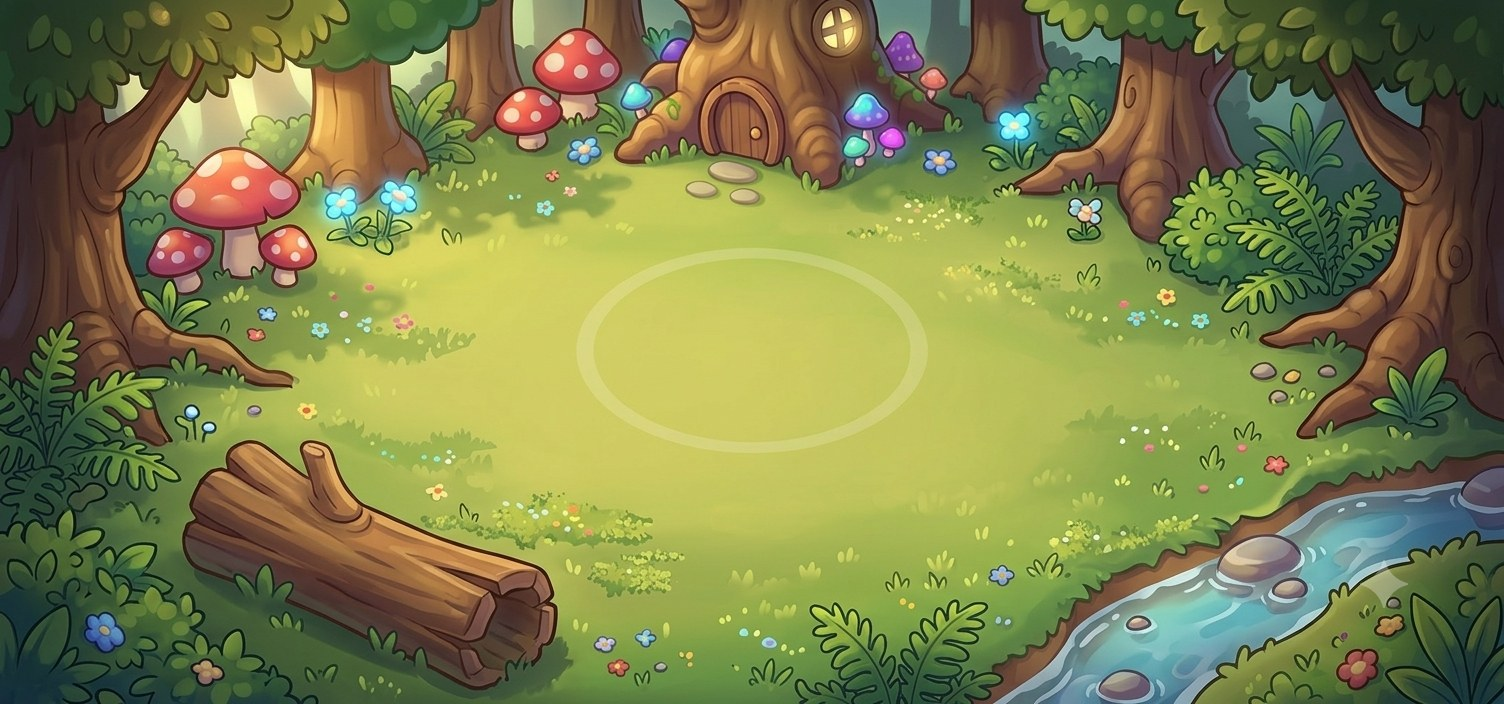
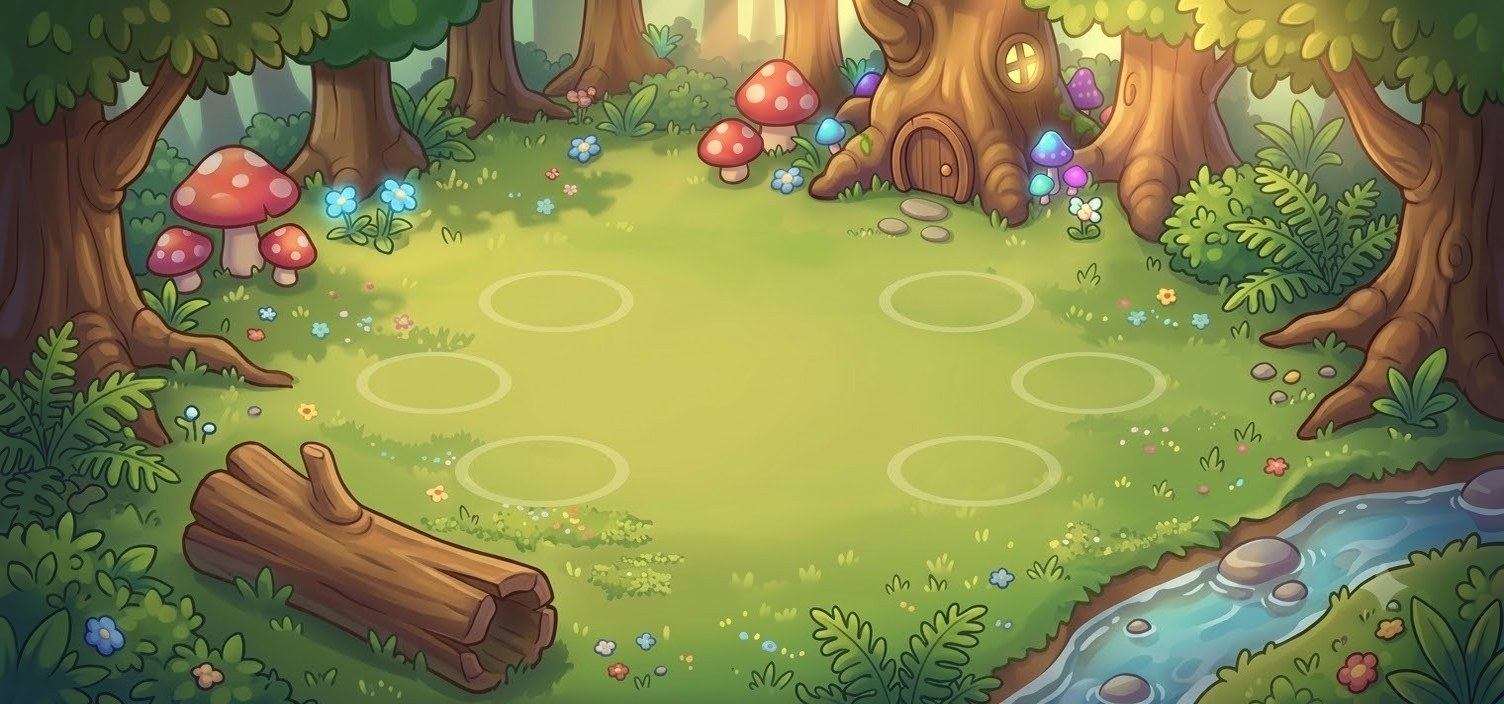
v9.9: pixel só na cidade e combate; novos cenários Praia e Bosque

diff --git a/dev/combate.html b/dev/combate.html
@@ -3227,7 +3227,7 @@ const THEMES = {
 };
 THEMES.bglobal = THEMES.templo; THEMES.weekly = THEMES.templo; // fundos pintados próprios (bg/bglobal.jpg, bg/weekly.jpg)
 // Cenários pintados (arte final): quando a imagem existe, substitui o cenário desenhado em código
-const BG_IMGS = Object.fromEntries(['praia','bosque','caverna','vulcao','pico','usina','pantano','templo','dungeon','arena','bglobal','weekly'].map(k=>{ const im = new Image(); im.onload = ()=>{ bg = null; refreshArt(); }; im.src = `bg/${k}.jpg`; return [k, im]; }));
+const BG_IMGS = Object.fromEntries(['praia','bosque','caverna','vulcao','pico','usina','pantano','templo','dungeon','arena','bglobal','weekly'].map(k=>{ const im = new Image(); im.onload = ()=>{ bg = null; refreshArt(); }; im.src = `bg/${k}.jpg?v=92`; return [k, im]; }));
 function drawBg(){
   const stg = B && STAGES[B.stage], tk = stg ? (stg.theme || REGIONS.find(r=>r.id===stg.region).theme) : 'praia', T = THEMES[tk];
   const c = document.createElement('canvas'); c.width=W*K; c.height=H*K;
@@ -3265,7 +3265,10 @@ let MONIMG = {};
 const PIXEL = { has: k => /^\d+$/.test(k) || /^b:/.test(k) }; // todos os monstros e chefes (montarias e poses de costas continuam pintadas)
 const pxSrc = k => `px/${k.replace(':','_')}.webp?v=${typeof ASSET_V!=='undefined'?ASSET_V:'1'}`;
 // se a versão pixel não carregar (ex.: arquivo ausente), volta para a arte pintada
-function pxLoad(im, k, orig){ im.onerror = ()=>{ im.onerror = null; im.src = orig; }; im.src = PIXEL.has(k) ? pxSrc(k) : orig; }
+function pxLoad(im, k, orig){ im.src = orig; } // telas de menu (Monstros, Livro, Equipe...) usam a arte pintada
+// Pixel art só nas cenas de uso (cidade e combate): render()/renderCity() ligam PX_SCENE enquanto desenham
+let PX_SCENE = false; const PXIMG = {};
+function pxImg(k){ if(!PIXEL.has(k)) return null; let im = PXIMG[k]; if(!im){ im = PXIMG[k] = new Image(); im.onload = refreshArt; im.onerror = ()=>{ im.bad = 1; }; im.src = pxSrc(k); } return !im.bad && im.complete && im.naturalWidth ? im : null; }
 let artTimer = 0; // quando uma arte termina de carregar, redesenha as telas abertas que mostram monstros
 function refreshArt(){ clearTimeout(artTimer); artTimer = setTimeout(()=>{ bg = null;
   for(const [id,f] of [['mon',()=>renderMon()],['dex',()=>{ renderDexGrid(); renderDexDet(); }],['sel',()=>buildCards()],['starter',()=>pickStarter()],['dep',()=>renderDep()],['mnt',()=>renderMnt()],['map',()=>drawMap()],['city',()=>renderCityHud()],['prof',()=>renderProf()]]) if(!$(id).hidden) f(); }, 60); }
@@ -3313,7 +3316,7 @@ function tintOf(im, kind){ let m = TINT.get(im); if(!m){ m = {}; TINT.set(im, m)
   const c = document.createElement('canvas'), s = Math.min(1, 256/Math.max(im.naturalWidth, im.naturalHeight)); c.width = Math.max(1, Math.round(im.naturalWidth*s)); c.height = Math.max(1, Math.round(im.naturalHeight*s)); const t = c.getContext('2d');
   t.drawImage(im, 0, 0, c.width, c.height); t.globalCompositeOperation = 'source-atop'; t.fillStyle = kind==='w' ? '#ffffff' : '#141020'; t.fillRect(0, 0, c.width, c.height); return m[kind] = c; }
 function drawCreature(g, sp, x, y, sc, face, opt={}){
-  const A = artOf(sp, opt.form), px = A && PIXEL.has(String(A.id)), bk = opt.back && A && !px && monImg('k:'+A.id), im = bk || (A && monImg(A.id)); if(bk) face = 1; // pose de costas (k:<nº>) para o lado do jogador
+  const A = artOf(sp, opt.form), pim = PX_SCENE && A ? pxImg(String(A.id)) : null, px = !!pim, bk = opt.back && A && !px && monImg('k:'+A.id), im = pim || bk || (A && monImg(A.id)); if(bk) face = 1; // pose de costas (k:<nº>) para o lado do jogador
   if(im){ let h = 74*sc*(1+0.14*(Math.min(A.st,4)-1))*(opt.form && SPECIES[sp].playable ? 1+0.08*opt.form : 1), w = im.naturalWidth*h/im.naturalHeight;
     if(opt.box){ const f = Math.min(1, opt.box[0]/w, opt.box[1]/h); w*=f; h*=f; }
     g.save(); g.translate(x,y); g.globalAlpha = opt.alpha ?? 1;
@@ -3364,7 +3367,7 @@ for(const k of Object.keys(LIB_KIND)) for(let t=1;t<=4;t++) ICON_FILE[libKey(k,t
 const ico = (k, cls='') => ICON_FILE[k] ? `<img class="ico ${cls}" src="ui/${ICON_FILE[k]}.png" alt="">` : `<i class="dot" style="background:${(ITEMS[k]||{}).color||'#ffc23d'}"></i>`;
 // ===== Personagens (arte final): sprites recortados em char/. Sem a imagem, cai no desenho provisório =====
 const CHAR = {};
-const ASSET_V = '91'; // muda quando as imagens dos personagens/cidade mudarem (o navegador guarda as antigas)
+const ASSET_V = '92'; // muda quando as imagens dos personagens/cidade mudarem (o navegador guarda as antigas)
 for(const k of [...['heroM','heroF','heroG','heroS'].flatMap(h=>[0,1,2,3,4,5].map(i=>`${h}_${i}`)), ...[0,1,2,3,4].map(i=>`npc_${i}`), ...[0,1,2,3,4,5].map(i=>`tr_${i}`), 'rideM','rideF','rideS']){
   const im = new Image(); im.onload = ()=>{ bg = null; if(typeof cityBg!=='undefined') cityBg = null; if(!$('starter').hidden) pickStarter(); }; im.src = `char/${k}.png?v=${ASSET_V}`; CHAR[k] = im; }
 const heroKey = view => `hero${(save && save.costume) || (save && save.hero) || 'M'}_${view}`; // 0 frente · 1 três-quartos · 2 lado (andando) · 3 costas · 4 costas arremessando · 5 costas comemorando
@@ -3441,7 +3444,8 @@ const ENERGY_MAX = 25; // barra verde (topo): enche ao bater/derrotar/apanhar; c
 function posOf(u){ return u.boss ? BOSS_POS : POS[u.side][u.slot]; }
 function scaleOf(u){ return u.boss ? 1.45 : u.sub ? 1.05 : 0.85; }
 
-function render(ts){
+function render(ts){ PX_SCENE = true; try{ render0(ts); } finally{ PX_SCENE = false; } }
+function render0(ts){
   if(!bg) bg = drawBg();
   const sx = shake>0 ? (Math.random()-.5)*shake/30 : 0, sy = shake>0 ? (Math.random()-.5)*shake/30 : 0;
   const cam = BS.ultCamera(); // Supremo: a câmera aproxima do atacante e volta no impacto
@@ -4651,7 +4655,8 @@ function cityFrame(ts){
   if(!GFX_LOW || ts - (cityFrame.lr||0) >= 30){ cityFrame.lr = ts; renderCity(ts); }
   cityRaf = requestAnimationFrame(cityFrame);
 }
-function renderCity(ts){
+function renderCity(ts){ PX_SCENE = true; try{ renderCity0(ts); } finally{ PX_SCENE = false; } }
+function renderCity0(ts){
   const g = cctx, KC = cityK(); if(ccv.width !== Math.round(W*KC)){ ccv.width = Math.round(W*KC); ccv.height = Math.round(H*KC); cityBg = null; }
   if(!cityBg || cityBg.S !== KC*CZ) cityBg = bakeCity();
   g.setTransform(1,0,0,1,0,0); g.fillStyle='#3a5a3a'; g.fillRect(0,0,ccv.width,ccv.height);

diff --git a/site/index.html b/site/index.html
@@ -3227,7 +3227,7 @@ const THEMES = {
 };
 THEMES.bglobal = THEMES.templo; THEMES.weekly = THEMES.templo; // fundos pintados próprios (bg/bglobal.jpg, bg/weekly.jpg)
 // Cenários pintados (arte final): quando a imagem existe, substitui o cenário desenhado em código
-const BG_IMGS = Object.fromEntries(['praia','bosque','caverna','vulcao','pico','usina','pantano','templo','dungeon','arena','bglobal','weekly'].map(k=>{ const im = new Image(); im.onload = ()=>{ bg = null; refreshArt(); }; im.src = `bg/${k}.jpg`; return [k, im]; }));
+const BG_IMGS = Object.fromEntries(['praia','bosque','caverna','vulcao','pico','usina','pantano','templo','dungeon','arena','bglobal','weekly'].map(k=>{ const im = new Image(); im.onload = ()=>{ bg = null; refreshArt(); }; im.src = `bg/${k}.jpg?v=92`; return [k, im]; }));
 function drawBg(){
   const stg = B && STAGES[B.stage], tk = stg ? (stg.theme || REGIONS.find(r=>r.id===stg.region).theme) : 'praia', T = THEMES[tk];
   const c = document.createElement('canvas'); c.width=W*K; c.height=H*K;
@@ -3265,7 +3265,10 @@ let MONIMG = {};
 const PIXEL = { has: k => /^\d+$/.test(k) || /^b:/.test(k) }; // todos os monstros e chefes (montarias e poses de costas continuam pintadas)
 const pxSrc = k => `px/${k.replace(':','_')}.webp?v=${typeof ASSET_V!=='undefined'?ASSET_V:'1'}`;
 // se a versão pixel não carregar (ex.: arquivo ausente), volta para a arte pintada
-function pxLoad(im, k, orig){ im.onerror = ()=>{ im.onerror = null; im.src = orig; }; im.src = PIXEL.has(k) ? pxSrc(k) : orig; }
+function pxLoad(im, k, orig){ im.src = orig; } // telas de menu (Monstros, Livro, Equipe...) usam a arte pintada
+// Pixel art só nas cenas de uso (cidade e combate): render()/renderCity() ligam PX_SCENE enquanto desenham
+let PX_SCENE = false; const PXIMG = {};
+function pxImg(k){ if(!PIXEL.has(k)) return null; let im = PXIMG[k]; if(!im){ im = PXIMG[k] = new Image(); im.onload = refreshArt; im.onerror = ()=>{ im.bad = 1; }; im.src = pxSrc(k); } return !im.bad && im.complete && im.naturalWidth ? im : null; }
 let artTimer = 0; // quando uma arte termina de carregar, redesenha as telas abertas que mostram monstros
 function refreshArt(){ clearTimeout(artTimer); artTimer = setTimeout(()=>{ bg = null;
   for(const [id,f] of [['mon',()=>renderMon()],['dex',()=>{ renderDexGrid(); renderDexDet(); }],['sel',()=>buildCards()],['starter',()=>pickStarter()],['dep',()=>renderDep()],['mnt',()=>renderMnt()],['map',()=>drawMap()],['city',()=>renderCityHud()],['prof',()=>renderProf()]]) if(!$(id).hidden) f(); }, 60); }
@@ -3313,7 +3316,7 @@ function tintOf(im, kind){ let m = TINT.get(im); if(!m){ m = {}; TINT.set(im, m)
   const c = document.createElement('canvas'), s = Math.min(1, 256/Math.max(im.naturalWidth, im.naturalHeight)); c.width = Math.max(1, Math.round(im.naturalWidth*s)); c.height = Math.max(1, Math.round(im.naturalHeight*s)); const t = c.getContext('2d');
   t.drawImage(im, 0, 0, c.width, c.height); t.globalCompositeOperation = 'source-atop'; t.fillStyle = kind==='w' ? '#ffffff' : '#141020'; t.fillRect(0, 0, c.width, c.height); return m[kind] = c; }
 function drawCreature(g, sp, x, y, sc, face, opt={}){
-  const A = artOf(sp, opt.form), px = A && PIXEL.has(String(A.id)), bk = opt.back && A && !px && monImg('k:'+A.id), im = bk || (A && monImg(A.id)); if(bk) face = 1; // pose de costas (k:<nº>) para o lado do jogador
+  const A = artOf(sp, opt.form), pim = PX_SCENE && A ? pxImg(String(A.id)) : null, px = !!pim, bk = opt.back && A && !px && monImg('k:'+A.id), im = pim || bk || (A && monImg(A.id)); if(bk) face = 1; // pose de costas (k:<nº>) para o lado do jogador
   if(im){ let h = 74*sc*(1+0.14*(Math.min(A.st,4)-1))*(opt.form && SPECIES[sp].playable ? 1+0.08*opt.form : 1), w = im.naturalWidth*h/im.naturalHeight;
     if(opt.box){ const f = Math.min(1, opt.box[0]/w, opt.box[1]/h); w*=f; h*=f; }
     g.save(); g.translate(x,y); g.globalAlpha = opt.alpha ?? 1;
@@ -3364,7 +3367,7 @@ for(const k of Object.keys(LIB_KIND)) for(let t=1;t<=4;t++) ICON_FILE[libKey(k,t
 const ico = (k, cls='') => ICON_FILE[k] ? `<img class="ico ${cls}" src="ui/${ICON_FILE[k]}.png" alt="">` : `<i class="dot" style="background:${(ITEMS[k]||{}).color||'#ffc23d'}"></i>`;
 // ===== Personagens (arte final): sprites recortados em char/. Sem a imagem, cai no desenho provisório =====
 const CHAR = {};
-const ASSET_V = '91'; // muda quando as imagens dos personagens/cidade mudarem (o navegador guarda as antigas)
+const ASSET_V = '92'; // muda quando as imagens dos personagens/cidade mudarem (o navegador guarda as antigas)
 for(const k of [...['heroM','heroF','heroG','heroS'].flatMap(h=>[0,1,2,3,4,5].map(i=>`${h}_${i}`)), ...[0,1,2,3,4].map(i=>`npc_${i}`), ...[0,1,2,3,4,5].map(i=>`tr_${i}`), 'rideM','rideF','rideS']){
   const im = new Image(); im.onload = ()=>{ bg = null; if(typeof cityBg!=='undefined') cityBg = null; if(!$('starter').hidden) pickStarter(); }; im.src = `char/${k}.png?v=${ASSET_V}`; CHAR[k] = im; }
 const heroKey = view => `hero${(save && save.costume) || (save && save.hero) || 'M'}_${view}`; // 0 frente · 1 três-quartos · 2 lado (andando) · 3 costas · 4 costas arremessando · 5 costas comemorando
@@ -3441,7 +3444,8 @@ const ENERGY_MAX = 25; // barra verde (topo): enche ao bater/derrotar/apanhar; c
 function posOf(u){ return u.boss ? BOSS_POS : POS[u.side][u.slot]; }
 function scaleOf(u){ return u.boss ? 1.45 : u.sub ? 1.05 : 0.85; }
 
-function render(ts){
+function render(ts){ PX_SCENE = true; try{ render0(ts); } finally{ PX_SCENE = false; } }
+function render0(ts){
   if(!bg) bg = drawBg();
   const sx = shake>0 ? (Math.random()-.5)*shake/30 : 0, sy = shake>0 ? (Math.random()-.5)*shake/30 : 0;
   const cam = BS.ultCamera(); // Supremo: a câmera aproxima do atacante e volta no impacto
@@ -4651,7 +4655,8 @@ function cityFrame(ts){
   if(!GFX_LOW || ts - (cityFrame.lr||0) >= 30){ cityFrame.lr = ts; renderCity(ts); }
   cityRaf = requestAnimationFrame(cityFrame);
 }
-function renderCity(ts){
+function renderCity(ts){ PX_SCENE = true; try{ renderCity0(ts); } finally{ PX_SCENE = false; } }
+function renderCity0(ts){
   const g = cctx, KC = cityK(); if(ccv.width !== Math.round(W*KC)){ ccv.width = Math.round(W*KC); ccv.height = Math.round(H*KC); cityBg = null; }
   if(!cityBg || cityBg.S !== KC*CZ) cityBg = bakeCity();
   g.setTransform(1,0,0,1,0,0); g.fillStyle='#3a5a3a'; g.fillRect(0,0,ccv.width,ccv.height);

diff --git a/dev/PASSAGEM_DE_BASTAO.md b/dev/PASSAGEM_DE_BASTAO.md
@@ -401,3 +401,5 @@ A Beatriz pediu: **toda atualização nova vai para o link dos amigos**. Depois 
 - 09/10 10h55 — v9.6 desempenho da cidade (Firefox travava): bakeCity() prepara pintura+luz e os recortes OCC uma vez na escala da tela (cityBg), sombra/brilho viram sprites, sem soft-light por quadro, canvas da cidade no máx. 2x. Opções > Gráficos: baixa (idle2d.gfx=low: 0,7x resolução, sem brilhos, 33 fps).
 - 09/10 11h — v9.7 TESTE pixel art nos 3 iniciais (famílias 20132, 20521-24, 20851-52): tools/pixelar.py gera px/<nº>.png; lista PIXEL no combate.html troca a fonte (pack ou art/i) e desenha sem suavizar; sem pose de costas p/ esses. Passinho (2 quadros) p/ monstros andando na cidade (opt.walk). Aguarda aprovação da Beatriz p/ aplicar aos demais.
 - 09/10 11h15 — v9.8 TODOS os monstros (560) e chefes (53) em pixel art: px/<chave>.webp (tools/pixelar_todos.py, ~12 s). PIXEL.has = números e b:. Se px falhar, cai na arte pintada (pxLoad). Montarias e poses de costas seguem pintadas. Artifact não leva px/ (613 arquivos) → lá aparece a arte pintada.
+- 09/10 11h25 — PENDENTE: novos cenários de batalha (bg/*.jpg) no estilo da cidade. Prompts prontos em /home/claude/gen/bgnew/prompts.json (praia..arena). Bloqueado: navegador do PC (Gemini) desconectado.
+- 09/10 12h55 — v9.9: pixel art só nas cenas (PX_SCENE em render()/renderCity(); PXIMG separado); menus voltam a arte pintada. Novos fundos de batalha (Gemini via Chrome) praia e bosque em bg/ (antigos em /home/claude/gen/bgold). Faltam caverna, vulcao, pico, usina, pantano, templo, dungeon, arena (prompts em /home/claude/gen/bgnew/prompts.json). Transporte de imagem: Chrome hidden congela a aba → clicar + AudioContext mudo destrava; imagem vai p/ artifact 'Recebedor de Arte' (6wthfTkT3MXWPV3Cq781QN, capability assets) e leio com Artifact read path=<id>.
